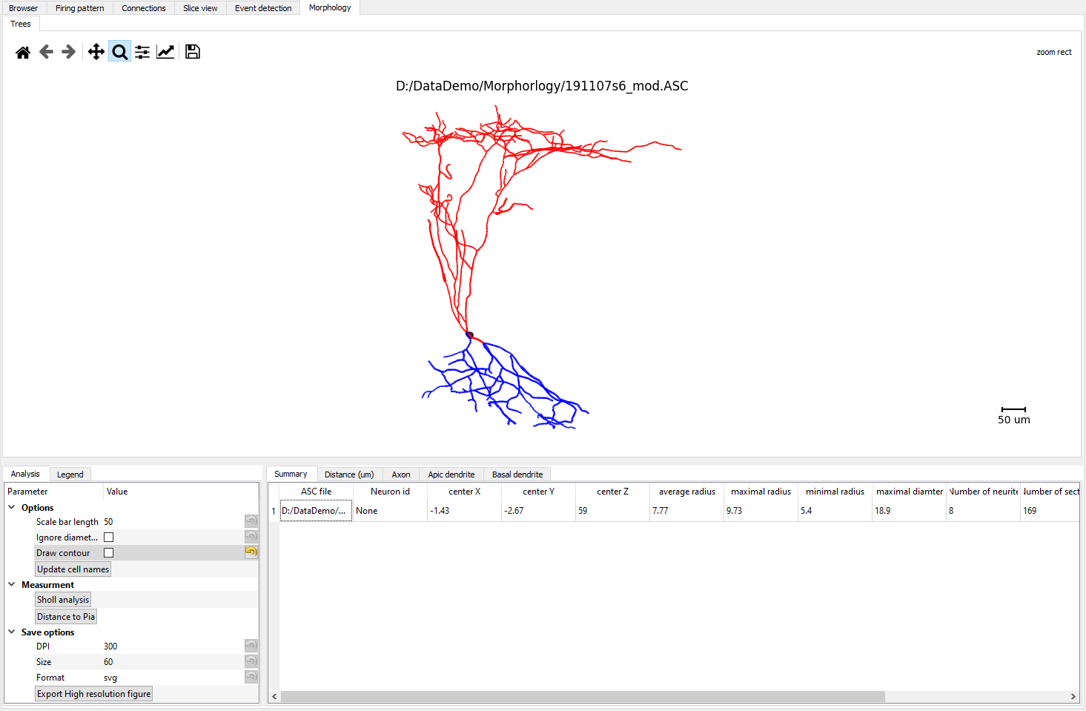
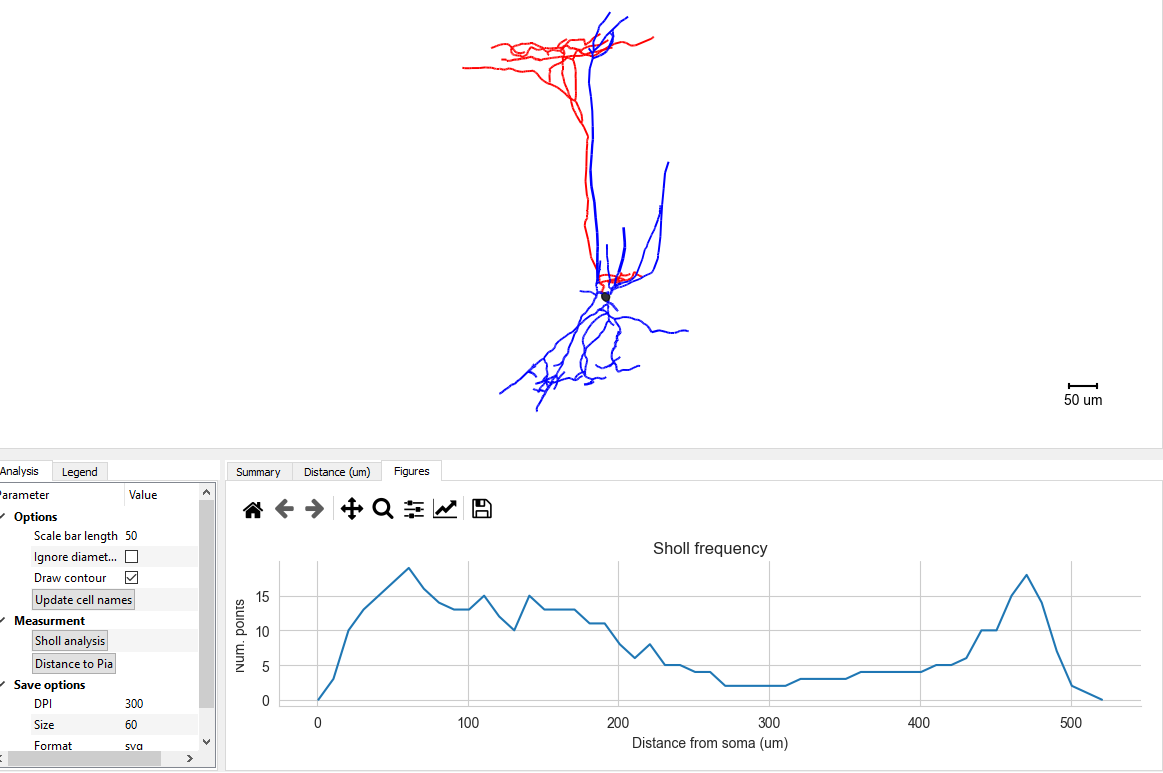
gui documentation

diff --git a/patchview/patchview.py b/patchview/patchview.py
@@ -800,10 +800,9 @@ class MainWindow(QtWidgets.QMainWindow):
             fig.clf()
             ax = fig.add_subplot(111)
             ax.cla()
-            # ax.plot(sholl_bins, sholl_dist)
             sns.set_style("whitegrid")
             ax = sns.lineplot(x=sholl_bins, y=sholl_dist, ax=ax)
-            ax.set(xlabel='Distance from soma (um)', ylabel="#points",\
+            ax.set(xlabel='Distance from soma (um)', ylabel="Num. points",\
             title="Sholl frequency")
             ax.spines["right"].set_visible(False)
             ax.spines["top"].set_visible(False)

diff --git a/docs/tutorials.rst b/docs/tutorials.rst
@@ -49,9 +49,10 @@ those two modes.
 * Right button drag: Scales the scene. Dragging left/right scales horizontally; dragging up/down scales vertically (although some scenes will have their x/y scales locked together). If there are x/y axes visible in the scene, then right-dragging over the axis will _only_ affect that axis. 
 * Right button clicks: Clicking the right button in most cases will show a context menu with a variety of options depending on the object(s) under the mouse cursor. 
 
-.. |mouseMode1| image:: resources/images/rectangle.png
+
+.. |mouseMode1| image:: resources/icons/rectangle.png
     :height: 25px
-.. |mouseMode2| image:: resources/images/navigation.png
+.. |mouseMode2| image:: resources/icons/navigation.png
     :height: 25px
 
 **Firing Pattern analysis**
@@ -76,7 +77,7 @@ files of firing pattern in the `Connection` tab. Invoke **Synaptic connections (
 the `Connection`` tab in the first middle left panel. After a few seconds, GUI would automatically switch to `Connections` view to show traces with possible connection.
 
 .. image:: resources/images/connectionTraces_loaded2.png
-    :width: 800
+    :width: 300
     :alt: Alternative text
 
 
@@ -142,8 +143,34 @@ Dependent on the content of the file, Patchview can perform:
   
 *  **Distance to Pia**: if the reconstruction contains a entry labeled "Pia" (check the test file: `test_multiSoma.ASC`), this will measure Euclidean distance from the center of a soma to the Pia. Measured results are shown in the `Distance to Pia` column in `Summary` table.
 
+.. image:: resources/images/measurePiaToSomas.png
+    :width: 400
+    :alt: Alternative text
+
 **Note**: the figure sometimes (more so under Ubuntu) does not automatically refresh. If it happens, drag the border between upper and lower panels to manually refresh.
+
+**Toolbar items**
+------------------------
+
+Simple explanation for each icon will be show as tooltip when Hovering over each icon.
+
+The first tool item |mouseInteract| is to switch mouse interation mode as explained above. 
+
+The second tool item |sliceview| is to load slice imaging into the tab "Slice view".
+
+The third |CR|  and fourth item  |corr| is to calculate correlations values in a multi-patch experiment: an index to quantify voltage dependent pair-wise Pearson correlation between raw voltage traces within a user specified time window.
+
+.. |mouseInteract| image:: resources/icons/rectangle.png 
+    :height: 20px
+.. |sliceview| image:: resources/icons/neuron.png 
+    :height: 20px
+.. |CR| image:: resources/icons/GP1.png 
+    :height: 15px
+.. |corr| image:: resources/icons/GPcorr.png
+    :height: 15px
 
 **Exporting data**
 ---------------------------
-File menu provides two exporting options. "Export .pkl" exports currently selected series into a Python pickle object. "Export .NWB" exports into neurodata-without-borders format.
+File menu provides two exporting options. `Export .pkl` exports currently selected series into a Python pickle object. `Export .NWB` exports into neurodata-without-borders format.
+
+
